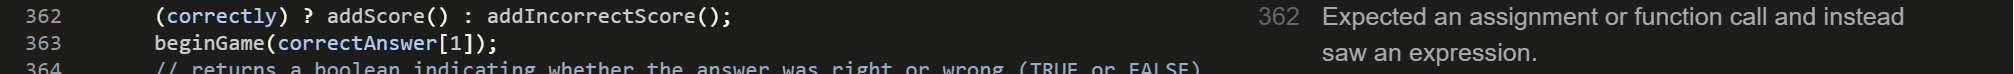
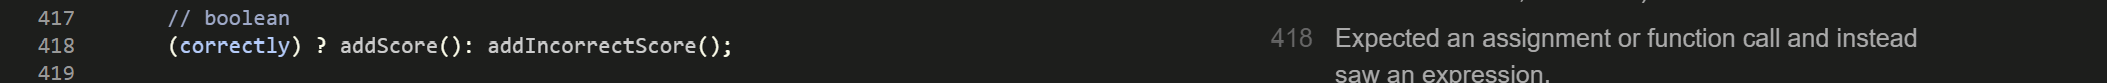
Update README JShint content

diff --git a/README.md b/README.md
@@ -257,16 +257,16 @@ As there were no errors in the final report, nothing was changed in the actual j
 
 ![loops in functions](docs/images/loop-in-function.png)
 
-As I now know, loops are incredibly expensive when it comes to javascript performance. While they are quite handy, I should avoid using them within functions where possible. In line 49, I am using a loop to iterate over my buttons and add a 'click' event listener so that I can get the data-type associated with each button and start the relevant game. One way to fix this would be to add 'id's to these buttons and attach event listeners to them separately. This way, the buttons would include their own functions and I wouldn't need to use loops. However, this would require more code in the script and wouldn't look as clean. 
+As I now know, loops are incredibly expensive when it comes to javascript performance. While they are quite handy, I should avoid using them within functions where possible. In line 47, I am using a loop to iterate over my buttons and add a 'click' event listener so that I can get the data-type associated with each button and start the relevant game. One way to fix this would be to add 'id's to these buttons and attach event listeners to them separately. This way, the buttons would include their own functions and I wouldn't need to use loops. However, this would require more code in the script and wouldn't look as clean. 
 
 ![similar warning with loop in function](docs/images/similar-loop-in-function.png)
 
-Similarly, in line 264, I am using a loop inside a function to iterate over my user-control buttons and get the data-type associated with each button. This particular function is quite large and could probably be broken up. Same as the last loop, this can be avoided using ids and event listeners. However, for the sake of getting comfortable with loops, I decided to use this method instead, as this particular app's performance is not significantly impacted. For larger applications, I will consider using alternative methods. 
+Similarly, in line 286, I am using a loop inside a function to iterate over my user-control buttons and get the data-type associated with each button. This particular function is quite large and could probably be broken up. Same as the last loop, this can be avoided using ids and event listeners. However, for the sake of getting comfortable with loops, I decided to use this method instead, as this particular app's performance is not significantly impacted. For larger applications, I will consider using alternative methods. 
 
 ![expression warning](docs/images/expression-warning.png)
 ![similar expression warning](docs/images/similar-expression-warning.png)
 
-In lines 362 and 568, I am getting similar errors in my expressions due to the fact that I am using ternary expressions. I could address these warning by switching to ordinary condition checking, like an 'if' statement. However, as the application works fine the way it is with no errors in console, I have decided to leave it as is (it also saves a bit of space and lets me practice).
+In lines 418 and 639, I am getting similar errors in my expressions due to the fact that I am using ternary expressions. I could address these warning by switching to ordinary condition checking, like an 'if' statement. However, as the application works fine the way it is with no errors in console, I have decided to leave it as is (it also saves a bit of space and lets me practice).
 
 # Deployment
 The application is deployed on Gitpages through github, and is available for viewing in the link at the top of this README.md document. To deploy a github repository, follow the following steps: 
